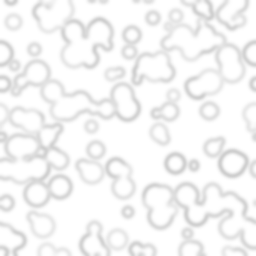
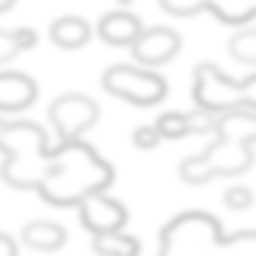
fix(scene): пена крупнее, песок берега светлее

diff --git a/draft-front_1.2ds/src/modules/Roleplay/Scene/Service/SceneTerrainPainter.ts b/draft-front_1.2ds/src/modules/Roleplay/Scene/Service/SceneTerrainPainter.ts
@@ -191,8 +191,8 @@ export class SceneTerrainPainter {
       this.trace(graphics, element.shape, zoom);
       graphics.stroke({
         fill: this.patterns.patternOf(foam, this.materials.period('foam', resolution), element.id + 53),
-        width: Math.max(1.5, resolution * 0.42),
-        alpha: 0.65,
+        width: Math.max(1.5, resolution * 0.26),
+        alpha: 0.55,
         alignment: 0.5,
         join: 'round',
       });
